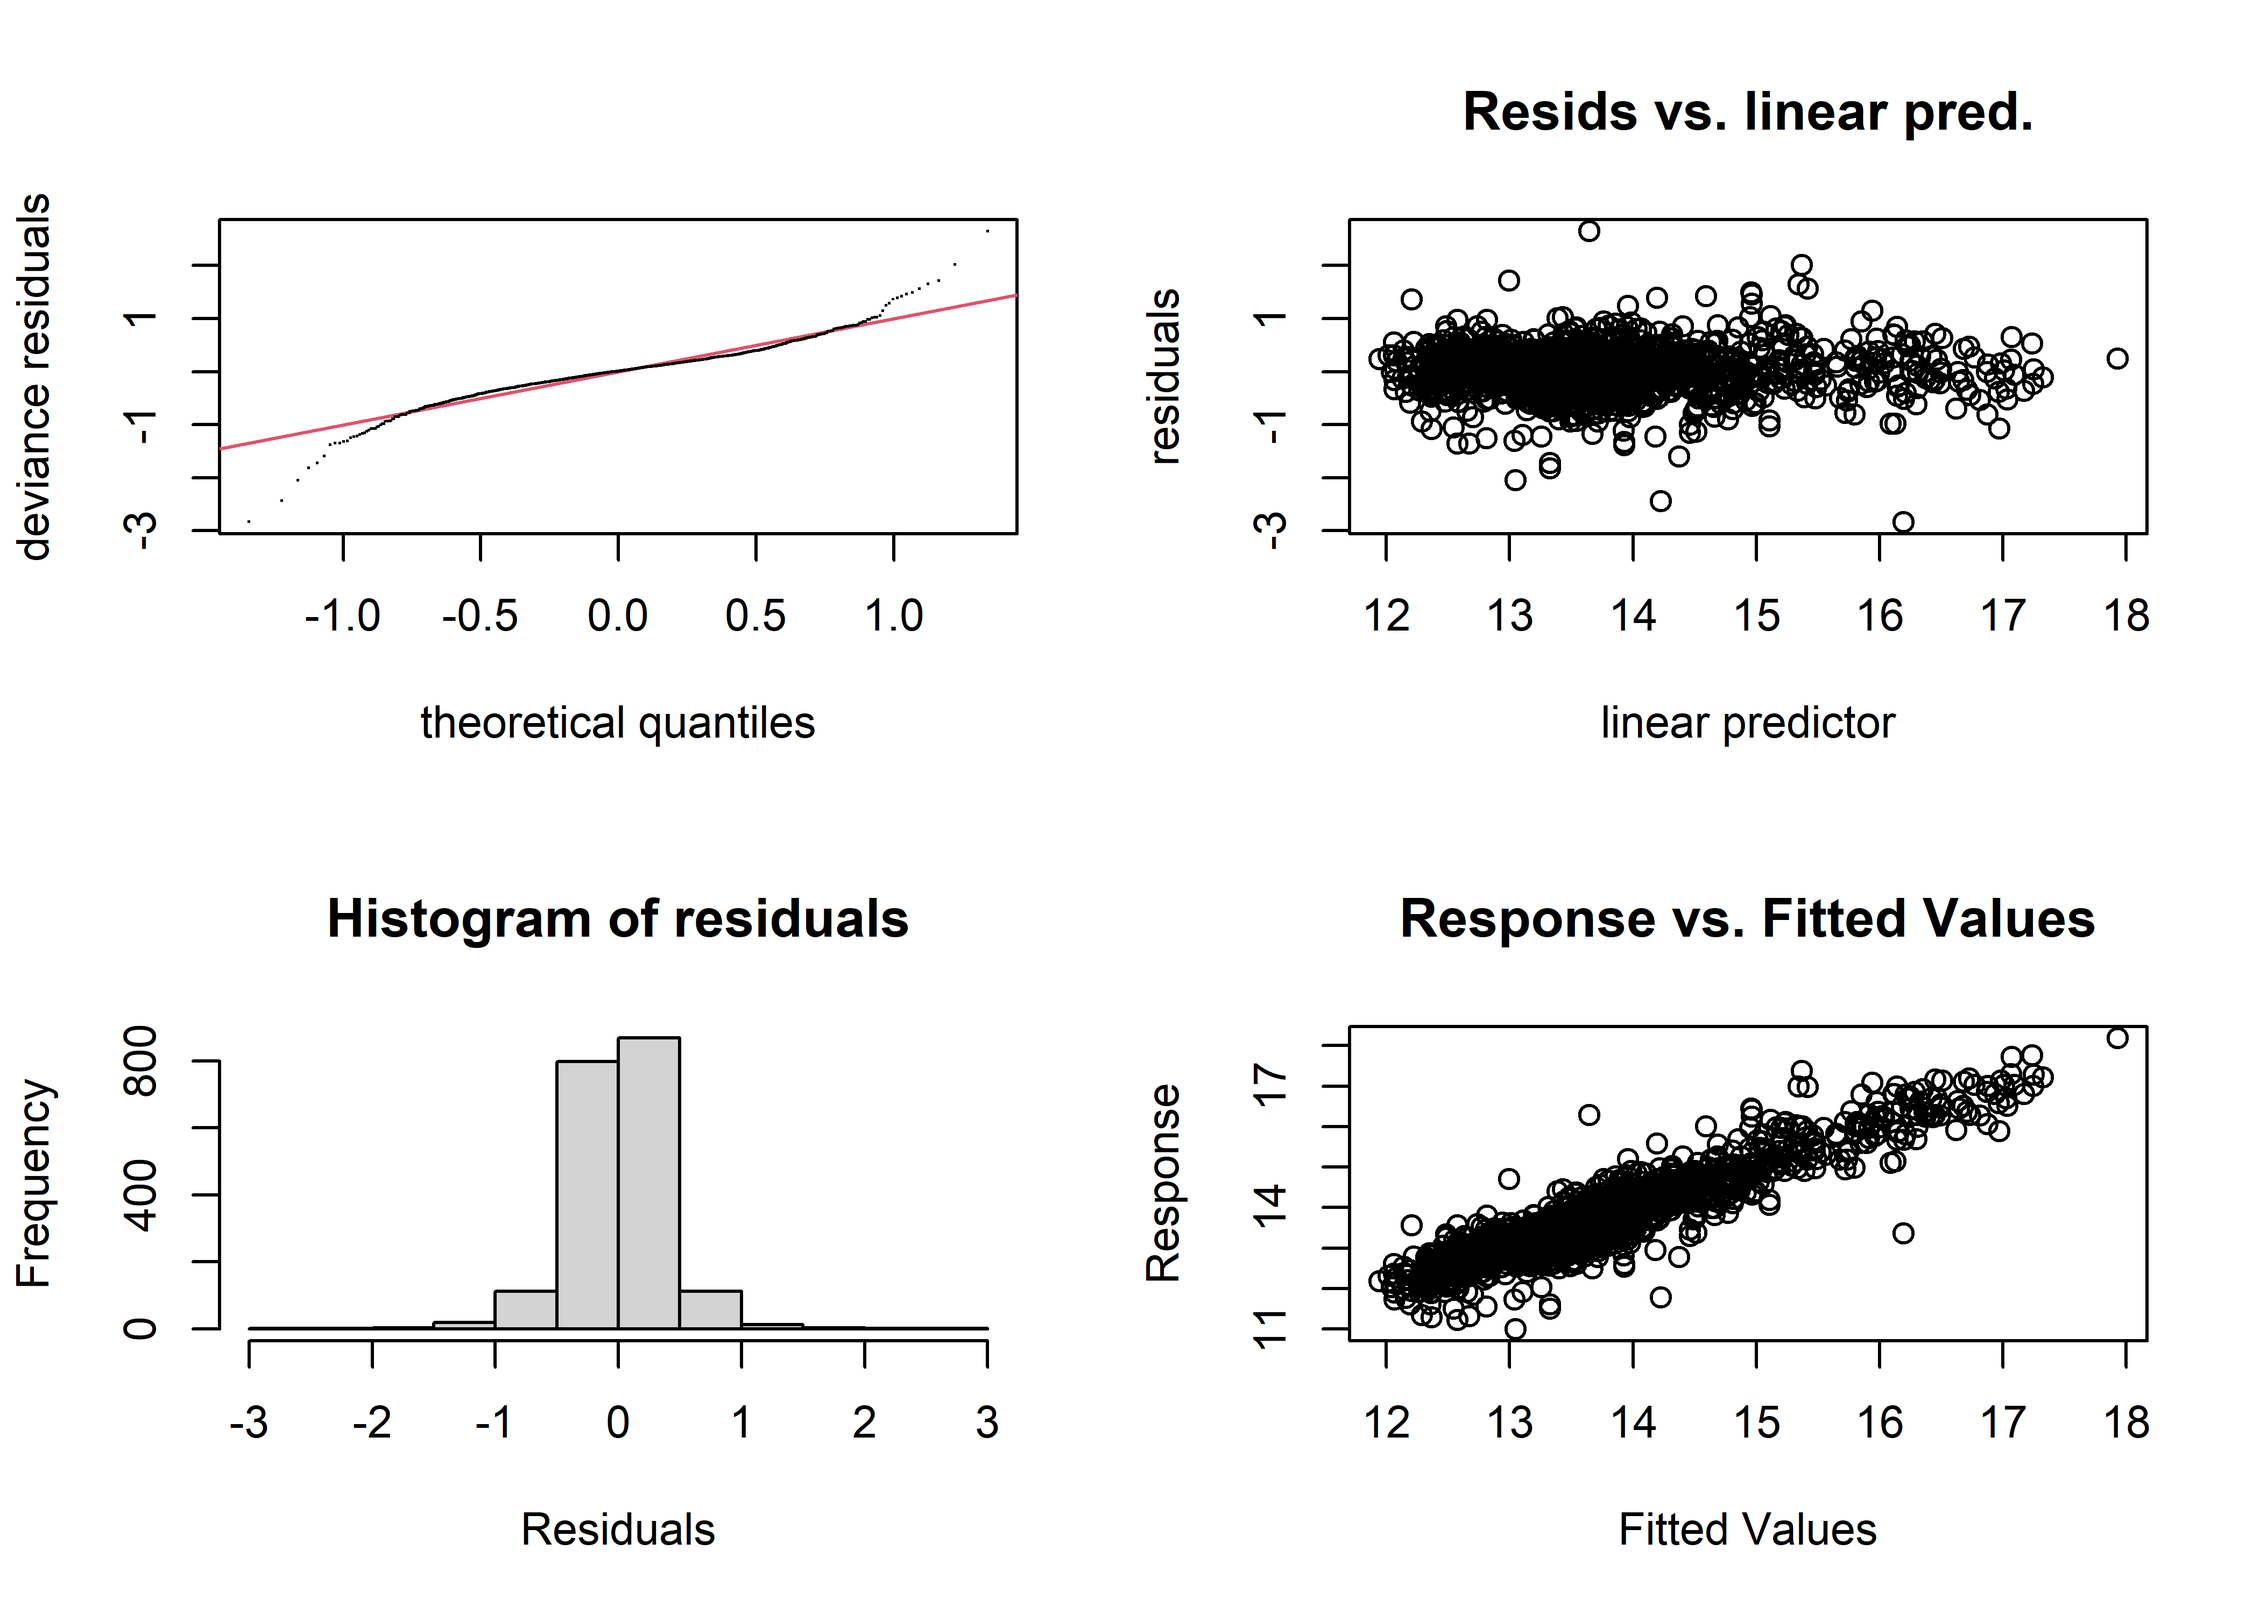
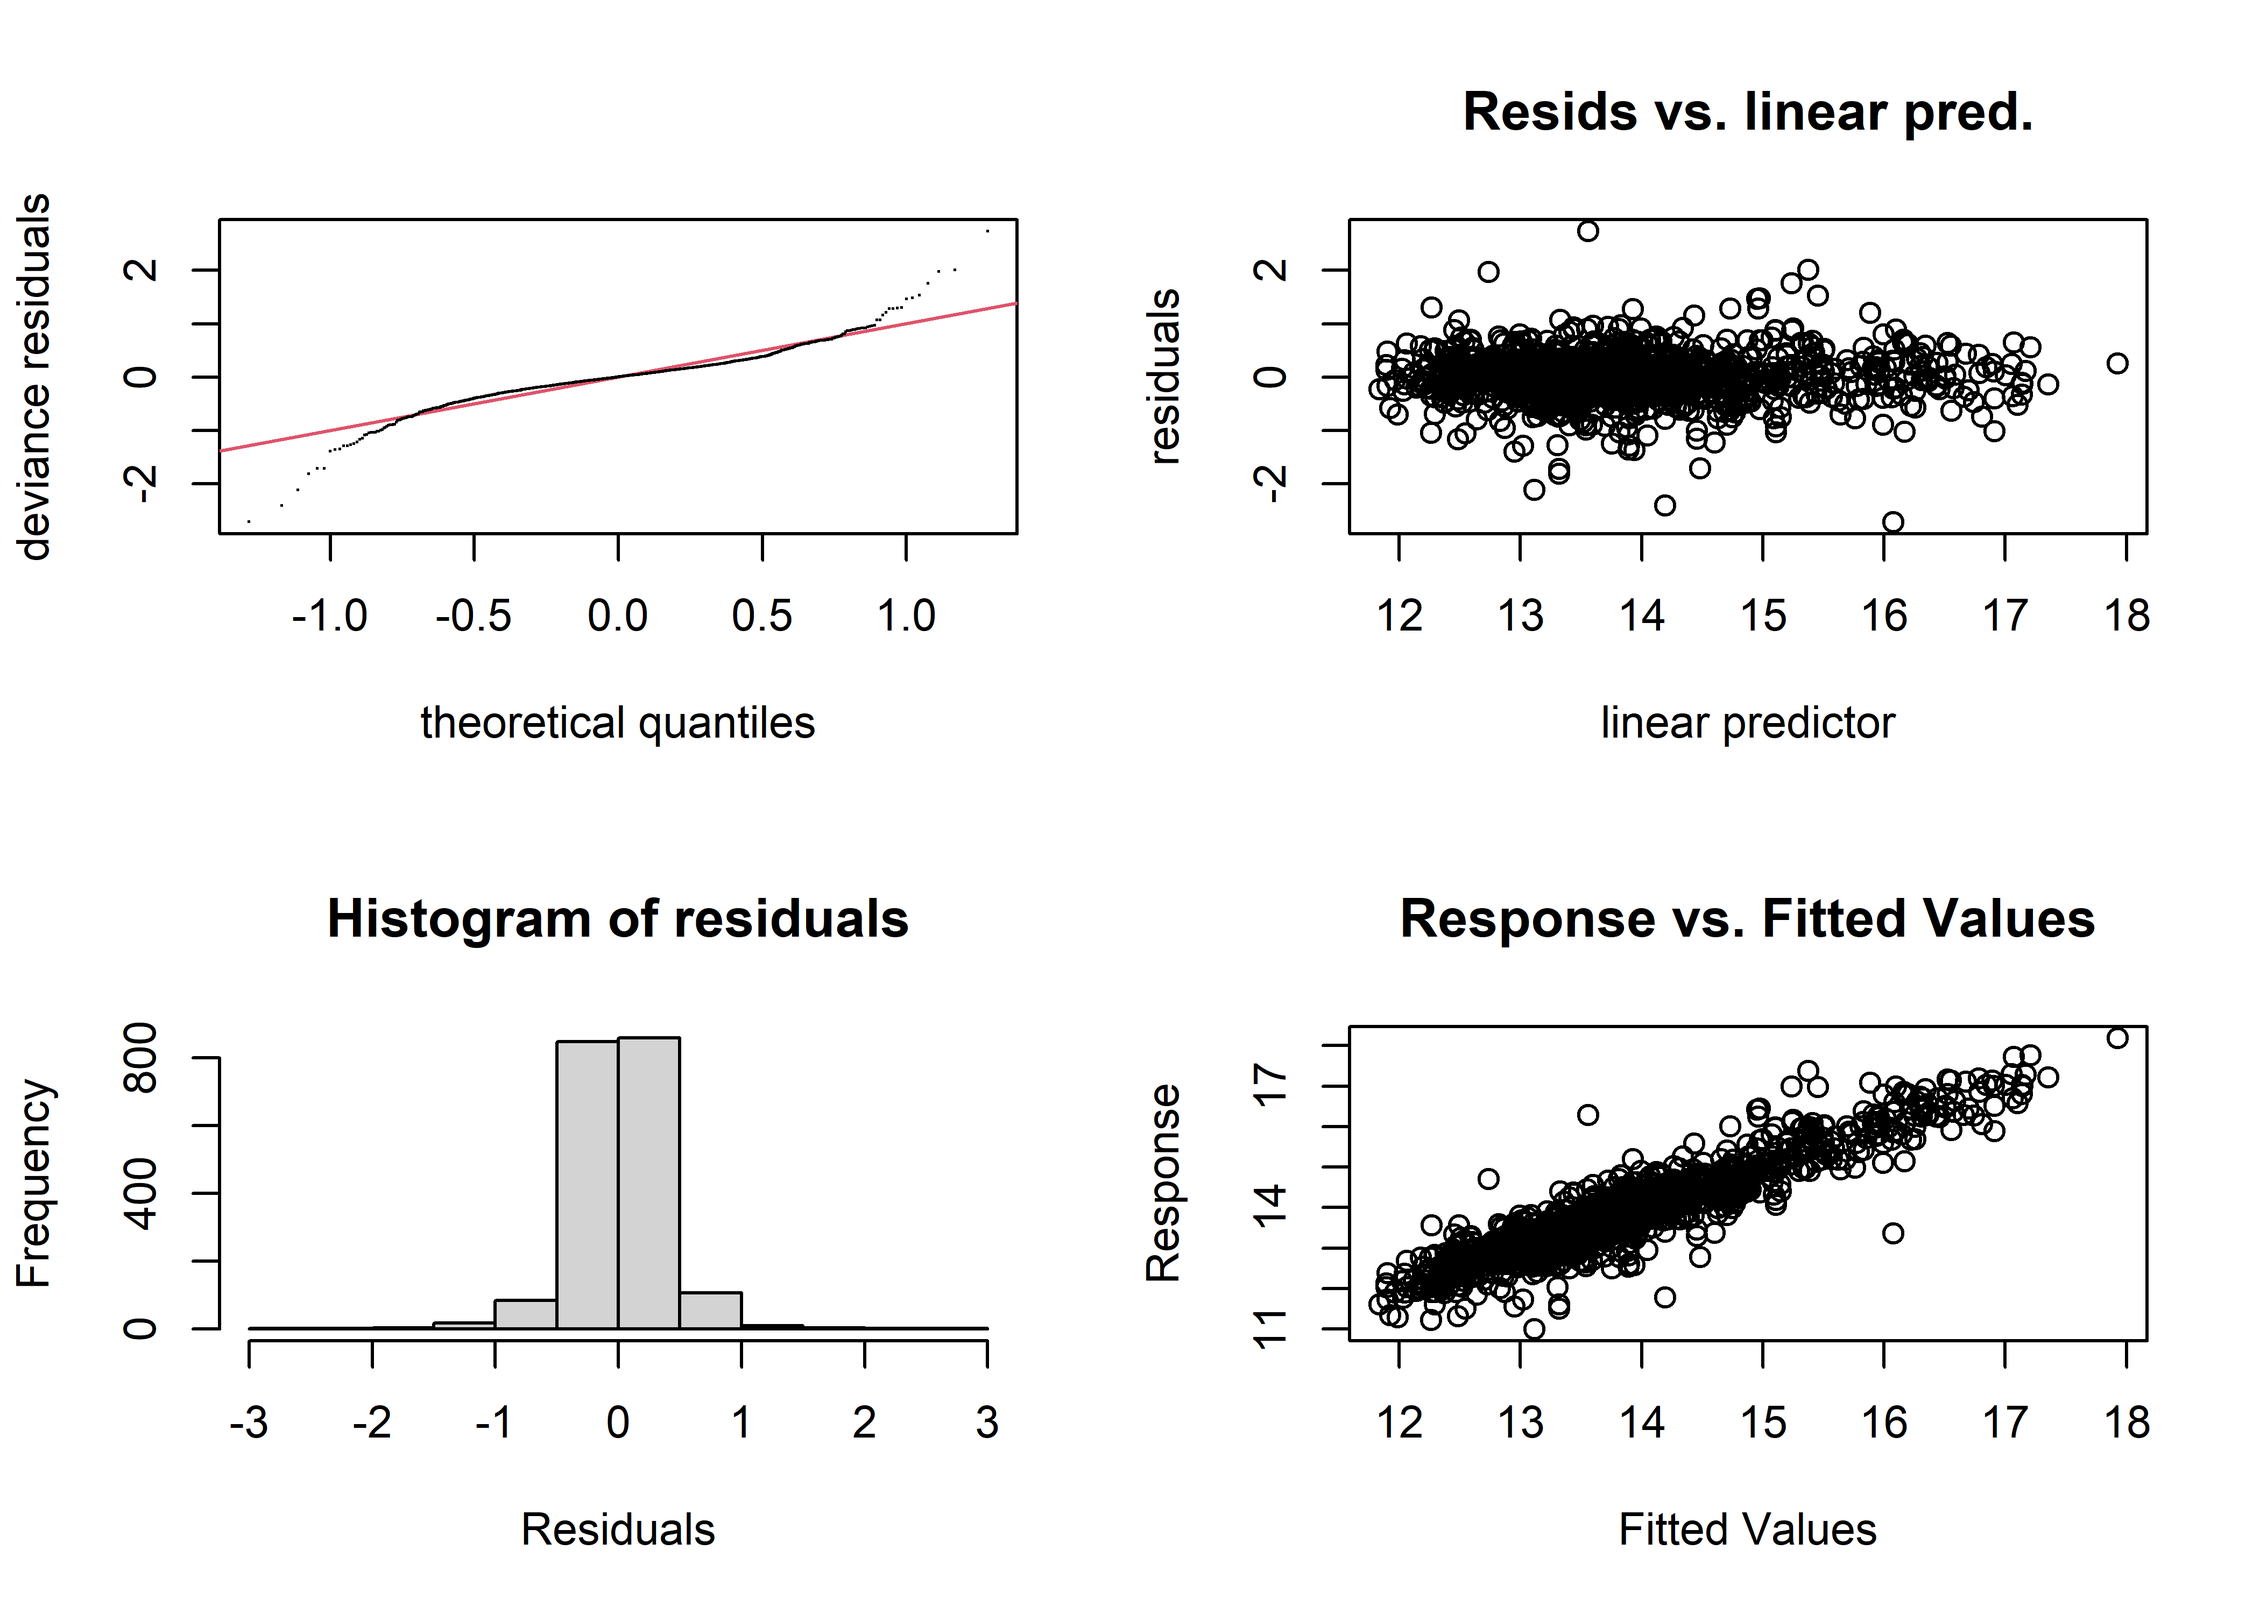
something went wrong??

diff --git a/NYC House Prices/NYCHousePrices.md b/NYC House Prices/NYCHousePrices.md
@@ -704,7 +704,7 @@ gam_train <- training(gam_split)
 gam_test <- testing(gam_split)
 
 gam_mod <- gam(price ~ s(sqft, by = type_mod) + s(bath, by = type_mod) + 
-                 te(lon, lat), gaussian, gam_train)
+                 s(lon, lat), gaussian, gam_train)
 
 summary(gam_mod)
 ```
@@ -714,36 +714,36 @@ summary(gam_mod)
     ## Link function: identity 
     ## 
     ## Formula:
-    ## price ~ s(sqft, by = type_mod) + s(bath, by = type_mod) + te(lon, 
+    ## price ~ s(sqft, by = type_mod) + s(bath, by = type_mod) + s(lon, 
     ##     lat)
     ## 
     ## Parametric coefficients:
     ##             Estimate Std. Error t value Pr(>|t|)    
-    ## (Intercept)  13.8154     0.1491   92.64   <2e-16 ***
+    ## (Intercept)  13.7306     0.1524   90.09   <2e-16 ***
     ## ---
     ## Signif. codes:  0 '***' 0.001 '**' 0.01 '*' 0.05 '.' 0.1 ' ' 1
     ## 
     ## Approximate significance of smooth terms:
     ##                                       edf Ref.df       F  p-value    
-    ## s(sqft):type_modApartment           1.001  1.001   0.970  0.32507    
-    ## s(sqft):type_modCondo               2.943  2.997  26.827  < 2e-16 ***
-    ## s(sqft):type_modCoop                8.660  8.961   5.590 3.52e-07 ***
-    ## s(sqft):type_modMulti Family        3.584  3.817  20.441  < 2e-16 ***
-    ## s(sqft):type_modSingle Family Home  2.632  2.865  93.285  < 2e-16 ***
-    ## s(sqft):type_modTownhouse           3.898  3.990  37.434  < 2e-16 ***
-    ## s(bath):type_modApartment           1.666  1.959  17.863 1.68e-06 ***
-    ## s(bath):type_modCondo               3.785  4.157   6.737 4.76e-05 ***
-    ## s(bath):type_modCoop                6.060  6.366 155.575  < 2e-16 ***
-    ## s(bath):type_modMulti Family        4.812  5.588   3.441  0.00274 ** 
-    ## s(bath):type_modSingle Family Home  5.360  6.174  15.841  < 2e-16 ***
-    ## s(bath):type_modTownhouse           6.744  6.963  11.643  < 2e-16 ***
-    ## te(lon,lat)                        23.793 23.974  66.378  < 2e-16 ***
+    ## s(sqft):type_modApartment           1.000  1.001   0.716  0.39775    
+    ## s(sqft):type_modCondo               2.928  2.996  33.022  < 2e-16 ***
+    ## s(sqft):type_modCoop                8.516  8.923   5.534 4.38e-07 ***
+    ## s(sqft):type_modMulti Family        3.259  3.443  27.063  < 2e-16 ***
+    ## s(sqft):type_modSingle Family Home  2.801  2.962 102.157  < 2e-16 ***
+    ## s(sqft):type_modTownhouse           3.896  3.989  37.626  < 2e-16 ***
+    ## s(bath):type_modApartment           1.749  2.043  16.745 2.15e-07 ***
+    ## s(bath):type_modCondo               3.869  4.225   6.561 8.25e-05 ***
+    ## s(bath):type_modCoop                6.098  6.398 152.674  < 2e-16 ***
+    ## s(bath):type_modMulti Family        5.352  6.095   3.909  0.00057 ***
+    ## s(bath):type_modSingle Family Home  5.382  6.194  15.990  < 2e-16 ***
+    ## s(bath):type_modTownhouse           6.749  6.965  12.817  < 2e-16 ***
+    ## s(lon,lat)                         27.501 28.851  65.915  < 2e-16 ***
     ## ---
     ## Signif. codes:  0 '***' 0.001 '**' 0.01 '*' 0.05 '.' 0.1 ' ' 1
     ## 
-    ## Rank: 128/133
-    ## R-sq.(adj) =  0.843   Deviance explained = 84.9%
-    ## GCV = 0.15554  Scale est. = 0.14943   n = 1934
+    ## Rank: 132/138
+    ## R-sq.(adj) =  0.857   Deviance explained = 86.3%
+    ## GCV = 0.14226  Scale est. = 0.13636   n = 1934
 
 ``` r
 augment(gam_mod) %>% 
@@ -753,9 +753,9 @@ augment(gam_mod) %>%
     ## # A tibble: 3 x 3
     ##   .metric .estimator .estimate
     ##   <chr>   <chr>          <dbl>
-    ## 1 rsq     standard       0.849
-    ## 2 rmse    standard       0.379
-    ## 3 mae     standard       0.266
+    ## 1 rsq     standard       0.863
+    ## 2 rmse    standard       0.362
+    ## 3 mae     standard       0.246
 
 ``` r
 (gam_test %>% 
@@ -779,28 +779,28 @@ gam.check(gam_mod)
 
     ## 
     ## Method: GCV   Optimizer: magic
-    ## Smoothing parameter selection converged after 57 iterations.
-    ## The RMS GCV score gradient at convergence was 2.372017e-06 .
+    ## Smoothing parameter selection converged after 64 iterations.
+    ## The RMS GCV score gradient at convergence was 6.260063e-06 .
     ## The Hessian was positive definite.
-    ## Model rank =  128 / 133 
+    ## Model rank =  132 / 138 
     ## 
     ## Basis dimension (k) checking results. Low p-value (k-index<1) may
     ## indicate that k is too low, especially if edf is close to k'.
     ## 
     ##                                       k'   edf k-index p-value    
-    ## s(sqft):type_modApartment           9.00  1.00    0.94   0.005 ** 
-    ## s(sqft):type_modCondo               9.00  2.94    0.94  <2e-16 ***
-    ## s(sqft):type_modCoop                9.00  8.66    0.94  <2e-16 ***
-    ## s(sqft):type_modMulti Family        9.00  3.58    0.94  <2e-16 ***
-    ## s(sqft):type_modSingle Family Home  9.00  2.63    0.94  <2e-16 ***
-    ## s(sqft):type_modTownhouse           9.00  3.90    0.94   0.010 ** 
-    ## s(bath):type_modApartment           9.00  1.67    0.95  <2e-16 ***
-    ## s(bath):type_modCondo               9.00  3.78    0.95   0.020 *  
-    ## s(bath):type_modCoop                9.00  6.06    0.95   0.025 *  
-    ## s(bath):type_modMulti Family        9.00  4.81    0.95   0.010 ** 
-    ## s(bath):type_modSingle Family Home  9.00  5.36    0.95   0.020 *  
-    ## s(bath):type_modTownhouse           9.00  6.74    0.95   0.005 ** 
-    ## te(lon,lat)                        24.00 23.79    0.72  <2e-16 ***
+    ## s(sqft):type_modApartment           9.00  1.00    0.94  <2e-16 ***
+    ## s(sqft):type_modCondo               9.00  2.93    0.94  <2e-16 ***
+    ## s(sqft):type_modCoop                9.00  8.52    0.94  <2e-16 ***
+    ## s(sqft):type_modMulti Family        9.00  3.26    0.94  <2e-16 ***
+    ## s(sqft):type_modSingle Family Home  9.00  2.80    0.94   0.005 ** 
+    ## s(sqft):type_modTownhouse           9.00  3.90    0.94  <2e-16 ***
+    ## s(bath):type_modApartment           9.00  1.75    0.94  <2e-16 ***
+    ## s(bath):type_modCondo               9.00  3.87    0.94   0.005 ** 
+    ## s(bath):type_modCoop                9.00  6.10    0.94   0.010 ** 
+    ## s(bath):type_modMulti Family        9.00  5.35    0.94  <2e-16 ***
+    ## s(bath):type_modSingle Family Home  9.00  5.38    0.94  <2e-16 ***
+    ## s(bath):type_modTownhouse           9.00  6.75    0.94   0.005 ** 
+    ## s(lon,lat)                         29.00 27.50    0.81  <2e-16 ***
     ## ---
     ## Signif. codes:  0 '***' 0.001 '**' 0.01 '*' 0.05 '.' 0.1 ' ' 1
 
@@ -819,7 +819,7 @@ all_metrics_rf %>%
     ## # A tibble: 15 x 4
     ##    .metric .estimator .estimate model
     ##    <chr>   <chr>          <dbl> <chr>
-    ##  1 rsq     standard       0.849 5    
+    ##  1 rsq     standard       0.863 5    
     ##  2 rsq     standard       0.688 1    
     ##  3 rsq     standard       0.681 2    
     ##  4 rsq     standard       0.655 3    
@@ -828,12 +828,12 @@ all_metrics_rf %>%
     ##  7 rmse    standard       0.530 3    
     ##  8 rmse    standard       0.508 2    
     ##  9 rmse    standard       0.500 1    
-    ## 10 rmse    standard       0.379 5    
+    ## 10 rmse    standard       0.362 5    
     ## 11 mae     standard       0.412 4    
     ## 12 mae     standard       0.383 3    
     ## 13 mae     standard       0.349 2    
     ## 14 mae     standard       0.346 1    
-    ## 15 mae     standard       0.266 5
+    ## 15 mae     standard       0.246 5
 
 ``` r
 all_metrics_rf %>% 
